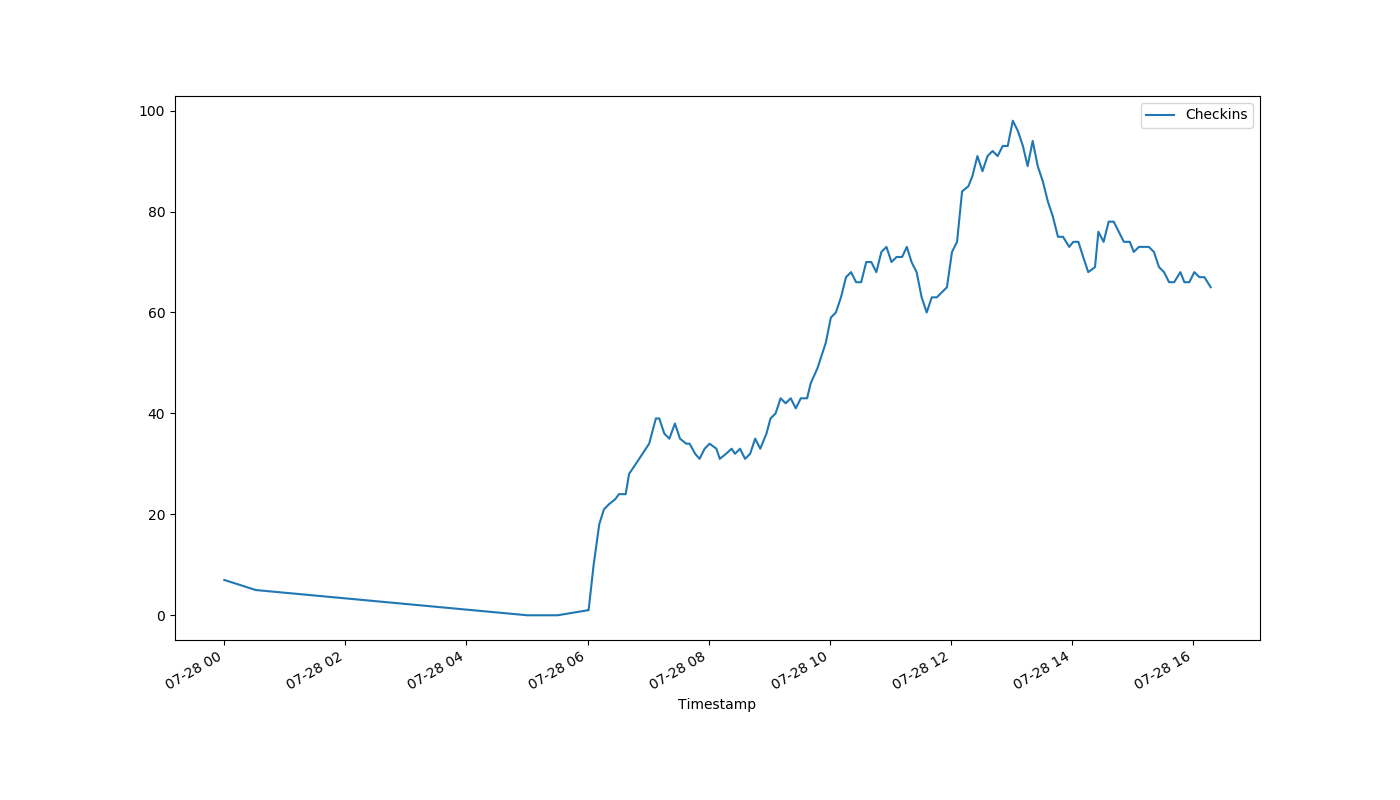
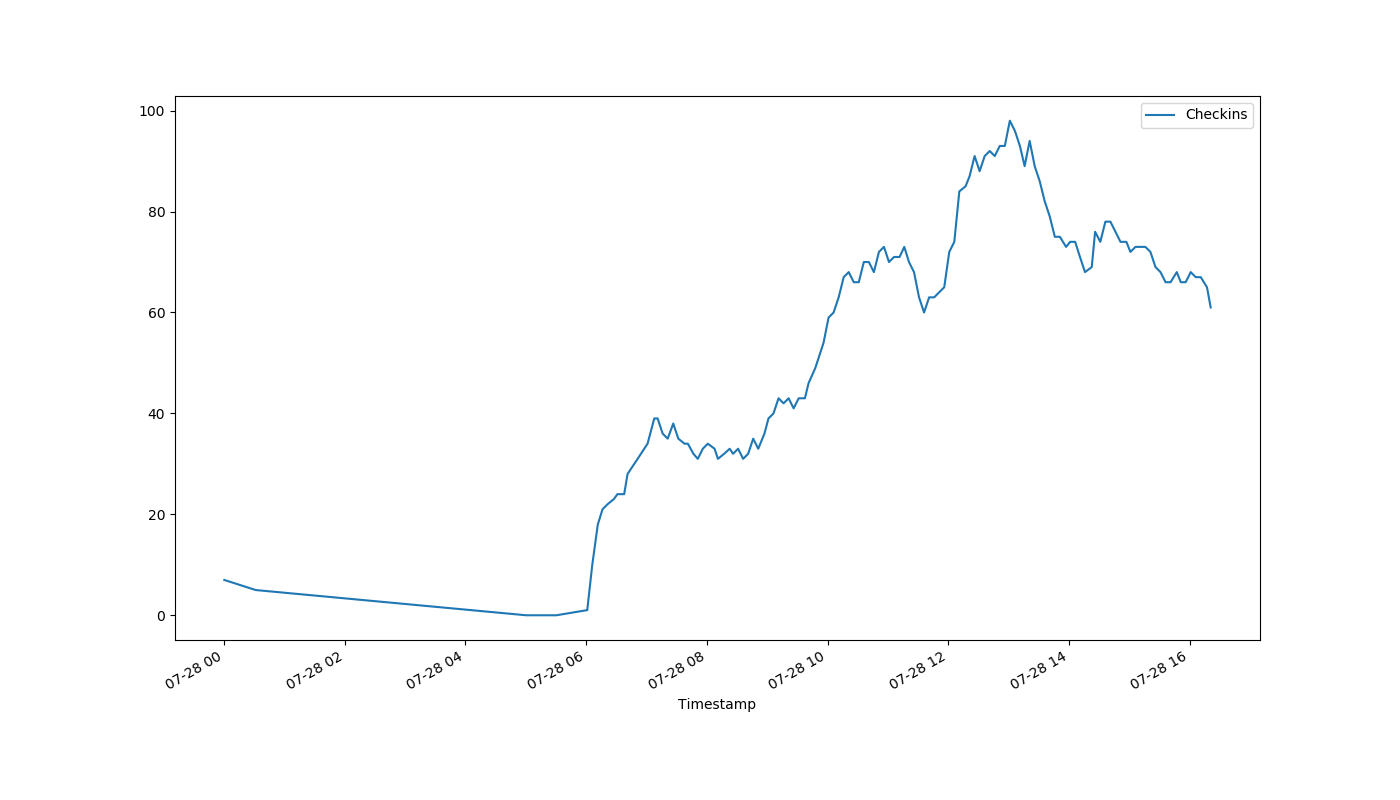
auto-Jul-28-16:22:19

diff --git a/index.html b/index.html
@@ -1,1 +1,1 @@
-<!DOCTYPE html><html><head><meta http-equiv="refresh" content="30"><link rel='stylesheet' href='holmcurrent.css'></head><body><p id='count'>65</p><div id='graph-wrap'><img id='graph' src='holmgraph-Jul-28.png'></div><p id='updated'>Last updated 16:18:11 / 16:17:20</p></body></html>
+<!DOCTYPE html><html><head><meta http-equiv="refresh" content="30"><link rel='stylesheet' href='holmcurrent.css'></head><body><p id='count'>61</p><div id='graph-wrap'><img id='graph' src='holmgraph-Jul-28.png'></div><p id='updated'>Last updated 16:21:11 / 16:21:00</p></body></html>
